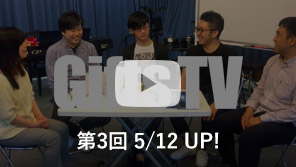
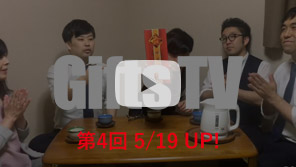
PICKUP修正

diff --git a/2016/include/pickup.php b/2016/include/pickup.php
@@ -41,6 +41,13 @@
 </div>
 
 <div class="column-inner">
+<span class="label-2">映像</span>
+<span>NEW</span>
+<a href="https://www.youtube.com/watch?v=SgnPbgiXGdQ&t=22s" target="_blank" onclick="javascript:pageTracker._trackPageview('GiftsTV'); "><img src="/2016/images/top/1804giftstv.jpg"></a>
+<p class="block-title"><a href="https://www.youtube.com/watch?v=SgnPbgiXGdQ&t=22s" target="_blank" onclick="javascript:pageTracker._trackPageview('Gifts TV');">GiftsTV ＃004<br>ゴスペルグループGiftsのワイワイ動画<br>(5月19日UP!／毎週土曜更新)</a></p>
+</div>
+
+<div class="column-inner">
 <span class="label-1">ブログ</span>
 <span>NEW</span>
 <a href="http://antiochblog.jp/praise/2018women/201805/" target="_blank"><img src="/2016/images/top/1708fujinkai.jpg"></a>
@@ -83,13 +90,6 @@
 <span>NEW</span>
 <a href="http://tv.antioch.jp/digest/201805hakubacamp-cm/" target="_blank"><img src="/2016/images/top/1805hakubacm.jpg"></a>
 <p class="block-title"><a href="http://tv.antioch.jp/digest/201805hakubacamp-cm/" target="_blank">白馬キャンプ<br>CM映像<br>(再生時間 11:56)</a></p>
-</div>
-
-<div class="column-inner">
-<span class="label-2">映像</span>
-<span>NEW</span>
-<a href="https://www.youtube.com/watch?v=21uw_JAp9Ts&feature=youtu.be" target="_blank" onclick="javascript:pageTracker._trackPageview('GiftsTV'); "><img src="/2016/images/top/1804giftstv.jpg"></a>
-<p class="block-title"><a href="https://www.youtube.com/watch?v=21uw_JAp9Ts&feature=youtu.be" target="_blank" onclick="javascript:pageTracker._trackPageview('Gifts TV');">GiftsTV ＃003<br>ゴスペルグループGiftsのワイワイ動画<br>(5月12日UP!／毎週土曜更新)</a></p>
 </div>
 
 <div class="column-inner">
